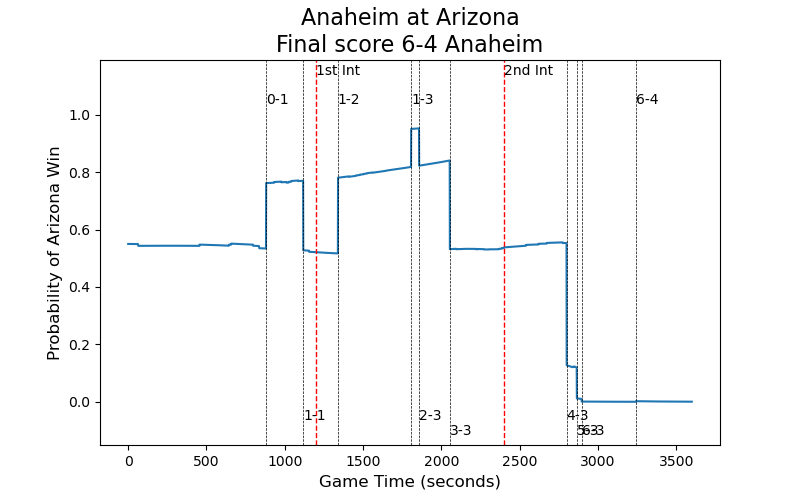
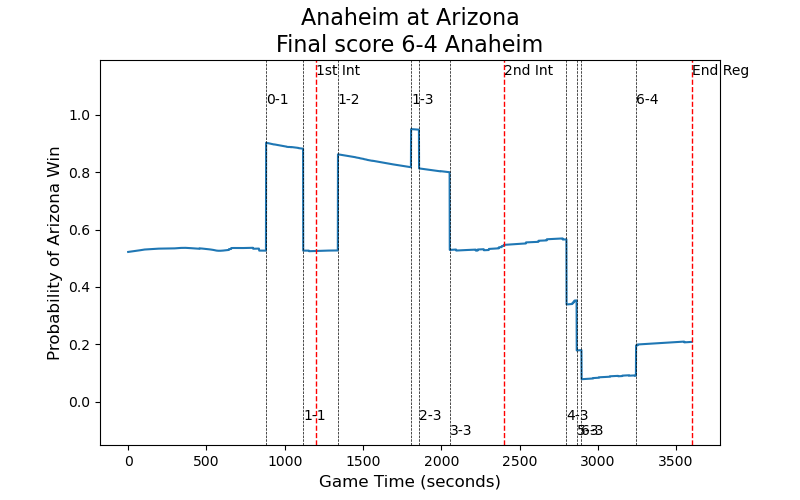
Updated comments and cleaned up code

diff --git a/models/train_win_prob_ensemble.py b/models/train_win_prob_ensemble.py
@@ -2,7 +2,6 @@ import os
 import pickle
 import numpy as np
 import pandas as pd
-import matplotlib.pyplot as plt
 from time import time
 from datetime import timedelta
 from sklearn.model_selection import train_test_split
@@ -14,7 +13,6 @@ from torch.utils.data import DataLoader
 from models.common_sql import create_db_connection, select_table
 from nhl_api.ref_common import game_time_to_sec
 from models.common_torch import RegressionNN, CustomDataset, train_loop
-from models.common_plot import plot_in_game_probs, plot_calibration_curves
 
 
 # Dynamically set the CWD
@@ -31,7 +29,6 @@ games = {game_x['game_id']: game_x for game_x in games_list}
 
 shots_df = select_table(connection, 'shots')
 shots_df = shots_df.loc[shots_df.shot_result.isin(['GOAL', 'SHOT'])]
-# print(shots_df.columns.tolist())
 
 # Remove select data from dataset
 print('Removed:')
@@ -139,19 +136,31 @@ for i, game_id in enumerate(game_id_list):
 data_df = pd.DataFrame(input_arr, columns=data_cols)
 
 # Define the ensemble seeds
-# print(np.random.choice(np.arange(1e4, 1e5).astype(int), size=25, replace=False))
+# print(np.random.choice(np.arange(1e4, 1e5).astype(int), size=50, replace=False))
+# ens_seeds = [99669, 41975, 77840, 92597, 93678, 86846, 86827, 72793, 46298,
+#              26165, 99995, 10038, 37807, 52924, 99469, 49268, 40677, 41554,
+#              74175, 58768, 55909, 29474, 65014, 40201, 81510, 15734, 48159,
+#              38745, 45299, 36448, 12202, 38238, 21620, 82789, 38227, 41272,
+#              10766, 78230, 92645, 57404, 13953, 51528, 77956, 16312, 39888,
+#              14233, 94609, 18560, 37869, 42528]
 ens_seeds = [99669, 41975, 77840, 92597, 93678, 86846, 86827, 72793, 46298,
              26165, 99995, 10038, 37807, 52924, 99469, 49268, 40677, 41554,
              74175, 58768, 55909, 29474, 65014, 40201, 81510, 15734, 48159,
              38745, 45299, 36448, 12202, 38238, 21620, 82789, 38227, 41272,
              10766, 78230, 92645, 57404, 13953, 51528, 77956, 16312, 39888,
-             14233, 94609, 18560, 37869, 42528]
+             14233, 94609, 18560, 37869, 42528, 16774, 46723, 99723, 23830,
+             88686, 34055, 90634, 46324, 62138, 98342, 35659, 21804, 46297,
+             16761, 65987, 66319, 25344, 45295, 45762, 85837, 89508, 90239,
+             93787, 38709, 58878, 76755, 38157, 51337, 28136, 62995, 15447,
+             70171, 74787, 62355, 18063, 28649, 26921, 48649, 69363, 70930,
+             85529, 13452, 93889, 40757, 26967, 24095, 39206, 27959, 75098,
+             54366]
 
 # Define hyperparameters
 ens_size = len(ens_seeds)
 learning_rate = 1e-4
 batch_size = 2048
-n_epochs = 50
+n_epochs = 100
 loss_fn = nn.BCEWithLogitsLoss()
 
 ens_models = []
@@ -193,11 +202,11 @@ for i, seed in enumerate(ens_seeds):
     print(f'Took {timedelta(seconds=time() - t_start)} to train model #{i + 1}')
 
     # Test the model
-    y_pred_train = sigmoid(model(Tensor(X_train_norm))).detach().numpy().squeeze()
-    train_loss = log_loss(y_train, y_pred_train, eps=1e-7)
-    y_pred_test = sigmoid(model(Tensor(X_test_norm))).detach().numpy().squeeze()
-    test_loss = log_loss(y_test, y_pred_test, eps=1e-7)
-    pred_classes = np.round(y_pred_test, 0)
+    train_pred = sigmoid(model(Tensor(X_train_norm))).detach().numpy().squeeze()
+    train_loss = log_loss(y_train, train_pred, eps=1e-7)
+    test_pred = sigmoid(model(Tensor(X_test_norm))).detach().numpy().squeeze()
+    test_loss = log_loss(y_test, test_pred, eps=1e-7)
+    pred_classes = np.round(test_pred, 0)
     test_acc = 100 * (pred_classes == y_test).sum() / y_test.size
 
     # Save model as a dictionary
@@ -208,8 +217,8 @@ for i, seed in enumerate(ens_seeds):
                'x_scaler': x_scaler,
                'y_train': y_train,
                'y_test': y_test,
-               'y_pred_train': y_pred_train,
-               'y_pred_test': y_pred_test,
+               'y_pred_train': train_pred,
+               'y_pred_test': test_pred,
                'train_loss': train_loss,
                'test_loss': test_loss,
                'test_acc': test_acc}
@@ -221,83 +230,3 @@ print(f'Took {timedelta(seconds=time() - t0_start)} to train the whole ensemble'
 # Save the models_and_analysis
 with open(froot + '/../data/in_game_win_prediction_ensemble.pkl', 'wb') as f:
     pickle.dump(ens_models, f)
-
-# Plot the prediction distribution
-ens_ind = 0
-fig, ax = plt.subplots(1, 1, figsize=(6, 4))
-# ax.hist(ens_models[ens_ind]['y_pred_test'], bins=50)
-for i in range(ens_size):
-    # ax.hist(ens_models[i]['y_pred_test'], bins=50, histtype='step')
-    ax.hist(ens_models[i]['y_pred_test'], bins=50, alpha=0.1)
-ax.set_title('Neural Network Prediction Distribution', fontsize=16)
-ax.set_xlabel("Probability of 'Home Win'", fontsize=12)
-ax.set_ylabel('Count', fontsize=12)
-# plt.show()
-
-# Calculate the win probability across game times and goal differentials
-goal_diffs = [2, 1, 0, -1]
-model_probs = np.zeros((ens_size, len(goal_diffs), game_len))
-for i, model in enumerate(ens_models):
-    scaler = model['x_scaler']
-    input_arr = np.zeros((game_len, 3))
-    for j, g_diff in enumerate(goal_diffs):
-        input_arr[:, 0] = g_diff
-        # input_arr[:, -1] = np.arange(game_len)[::-1]
-        input_arr[:, -1] = np.arange(game_len)
-        scaled_input = scaler.transform(input_arr)
-        pred_prob = sigmoid(model['model'](Tensor(scaled_input)))
-        model_probs[i, j, :] = pred_prob.detach().numpy().squeeze()
-
-# Plot the continuous win probability for goal differentials of +2, +1, 0 and -1
-line_stys = ['--', '-', '-.', ':']
-plt_ttls = [f'Model #{ens_ind}', 'Ensemble Average']
-fig, axes = plt.subplots(2, 1, figsize=(6, 6), sharex=True)
-for i, probs in enumerate([model_probs[ens_ind], np.mean(model_probs, axis=0)]):
-    for j, goal_diff in enumerate(goal_diffs):
-        lbl = f'+{goal_diff}' if goal_diff > 0 else goal_diff
-        axes[i].plot(np.arange(game_len), probs[j, :], f'k{line_stys[j]}',
-                     label=f'{lbl} Home Lead')
-    axes[i].set_title(plt_ttls[i], fontsize=14)
-    axes[i].set_ylabel('Home Win Probability', fontsize=12)
-    axes[i].legend(loc='upper left', bbox_to_anchor=(1.0, 1.03))
-    axes[i].set_ylim([0, 1])
-axes[-1].set_xlabel('Game Time (seconds)', fontsize=12)
-fig.tight_layout()
-fig.savefig(froot + '/../readme_imgs/home_win_prob_vs_goal_diffs.png')
-
-# Plot the in-game win probability for an example game
-if test_game_id1 == 2021020172:
-    team_names1 = ['Arizona', 'Seattle']
-elif test_game_id1 == 2021020158:
-    team_names1 = ['Edmonton', 'New York']
-elif test_game_id1 == 2020020129:
-    team_names1 = ['Tampa Bay', 'Nashville']
-elif test_game_id1 == 2010020341:
-    team_names1 = ['Arizona', 'Anaheim']
-test_home_win1 = games[test_game_id1]['home_win']
-x_scalers = [model['x_scaler'] for model in ens_models]
-fig, _ = plot_in_game_probs(test_game_shots1, test_home_win1, team_names1,
-                            x_scalers, ens_models)
-fig.savefig(froot + f'/../readme_imgs/in_game_win_prob_{test_game_id1}.png')
-
-# Plot the in-game win probability for another example game
-if test_game_id2 == 2021020172:
-    team_names2 = ['Arizona', 'Seattle']
-elif test_game_id2 == 2021020158:
-    team_names2 = ['Edmonton', 'New York']
-elif test_game_id2 == 2020020129:
-    team_names2 = ['Tampa Bay', 'Nashville']
-elif test_game_id2 == 2010020341:
-    team_names2 = ['Arizona', 'Anaheim']
-test_home_win2 = games[test_game_id2]['home_win']
-fig, _ = plot_in_game_probs(test_game_shots2, test_home_win2, team_names2,
-                            x_scalers, ens_models)
-fig.savefig(froot + f'/../readme_imgs/in_game_win_prob_{test_game_id2}.png')
-
-# Plot the ensemble calibration curve
-model_preds = [model['y_pred_test'] for model in ens_models]
-y_tests = [model['y_test'] for model in ens_models]
-plt_ttl = 'Ensemble Calibration Curve'
-fig, _, _ = plot_calibration_curves(model_preds, y_tests, class1='Home Win',
-                                    plt_ttl=plt_ttl)
-fig.savefig(froot + f'/../readme_imgs/win_prediction_ensemble_calibration.png')

diff --git a/api_scripts/ref2_sort_game_events.py b/api_scripts/ref2_sort_game_events.py
@@ -10,7 +10,7 @@ from nhl_api.common import save_nhl_data
 # Dynamically set the CWD
 froot = str(os.path.dirname(__file__))
 
-# Load the shift data as a data frame and event data as a list
+# Load the event data
 events_df = pd.read_csv(froot + '/../data/game_events.csv')
 
 # TODO: Is there missing shift data in some games? Or do I just need to drop
@@ -51,13 +51,6 @@ skip_next = False
 for i, event_x in enumerate(event_list):
     event_type = event_x['eventTypeId']
     event_time = game_time_to_sec(event_x['periodTime'])
-    # if event_type == 'FACEOFF' and ~(last_type == 'STOP' or period_time == 0):
-    #     next_event = event_list[i + 1].copy()
-    #     next_time = game_time_to_sec(next_event['periodTime'])
-    #     next_type = next_event['eventTypeId']
-    #     if next_type == 'STOP' and (next_time - period_time) == 1:
-    #         switch_next = True
-    # elif event_type in ['SHOT', 'MISS', 'BLOCK', 'GOAL']:
     if event_type == 'STOP' and not skip_next:
         next_event = event_list[i + 1].copy()
         next_time = game_time_to_sec(next_event['periodTime'])
@@ -73,14 +66,7 @@ for i, event_x in enumerate(event_list):
             next2_event = event_list[i + 2].copy()
             next2_time = game_time_to_sec(next2_event['periodTime'])
             next2_type = next2_event['eventTypeId']
-            # if dbl_stop:
-            #     last2_event = event_list[i - 2]
-            #     last2_type = last2_event['eventTypeId']
-            #     last2_time = game_time_to_sec(last2_event['periodTime'])
-            #     if last2_type == 'FACEOFF' and (event_time - last2_time) == 1:
             if last_type == 'FACEOFF' and (event_time - last_time) < 5:
-                # if event_list[i - 2]['eventTypeId'] == 'STOP':
-                #     continue
                 temp_event = event_x.copy()
                 event_list[i] = last_event.copy()
                 event_list[i]['EventID'] = temp_event['EventID']
@@ -88,12 +74,6 @@ for i, event_x in enumerate(event_list):
                 event_list[i - 1] = temp_event.copy()
                 event_list[i - 1]['EventID'] = last_event['EventID']
                 event_list[i - 1]['periodTime'] = last_event['periodTime']
-            #     new_event_list[-1] = temp_event.copy()
-            #     new_event_list[-1]['EventID'] = last_event['EventID']
-            #     new_event_list[-1]['periodTime'] = last_event['periodTime']
-            #     new_event_list.append(last_event.copy())
-            #     new_event_list[-1]['EventID'] = temp_event['EventID']
-            #     new_event_list[-1]['periodTime'] = temp_event['periodTime']
             elif next2_type == 'FACEOFF' and 0 < (next2_time - event_time) < 3:
                 temp_event = event_x.copy()
                 event_list[i] = next_event.copy()
@@ -105,20 +85,13 @@ for i, event_x in enumerate(event_list):
                 skip_next = True
             else:
                 rm_inds.append(i)
-    # elif (np.isnan(event_x['xCoord']) or np.isnan(event_x['yCoord'])) and \
-    #         event_type != 'PENALTY':
-    #     rm_inds.append(i)
     skip_next = False
     dbl_stop = False
     last_event = event_x.copy()
     last_type = event_type
     last_time = event_time
-    # new_event_list.append(event_x.copy())
 print(f'It took {timedelta(seconds=(time() - t_start))} to fix stop events')
 print(f'{len(rm_inds)} stop events were removed')
-# print(pd.DataFrame(event_list).eventTypeId.iloc[rm_inds].value_counts())
-# print(rm_inds)
-# print(pd.DataFrame(event_list).eventTypeId.iloc[rm_inds].unique().tolist())
 all_events = [event_list[i] for i in range(len(event_list)) if i not in rm_inds]
 
 # Save the updated game event data

diff --git a/nhl_api/ref_common.py b/nhl_api/ref_common.py
@@ -58,6 +58,8 @@ def create_shift_tables(shift_df, player_list, game_type, period):
     return shift_tables
 
 
+# TODO: update 'emptyNet' boolean for all events
+#  (maybe leave these booleans for goals only)
 def add_players_to_events(event_list, shift_df, games_dict):
     """ Gets the player IDs for all players on the ice at a given time.
 
@@ -103,6 +105,19 @@ def add_players_to_events(event_list, shift_df, games_dict):
             on_ice_players = list(compress(player_list, player_mask))
             event_key = player_key.format(team)
             event[event_key] = on_ice_players
+
+        # # Set empty net boolean
+        # home_players = event['playersHome']
+        # away_players = event['playersAway']
+        # home_en = True
+        # away_en = True
+        # for player in home_players:
+        #     if players[player]['position'] == 'G':
+        #         home_en = False
+        # for player in away_players:
+        #     if players[player]['position'] == 'G':
+        #         away_en = False
+        # event['emptyNet'] = home_en or away_en
 
         # Add home and away team IDs
         event['homeTeamId'] = games_dict[new_game_id]['homeTeamId']

diff --git a/nhl_database/db_create_sqla_core.py b/nhl_database/db_create_sqla_core.py
@@ -21,8 +21,12 @@ db_engine = create_engine(DATABASE_URL, echo=False)
 connection = db_engine.connect()
 
 # Create the tables ("Emit DDL to the DB")
+t0 = time()
 meta.drop_all(db_engine)
+print(f"It took {timedelta(seconds=(time() - t0))} to delete the old tables ")
+t0 = time()
 meta.create_all(db_engine)
+print(f"It took {timedelta(seconds=(time() - t0))} to create the new tables ")
 
 # Load the data
 froot = str(os.path.dirname(__file__))
